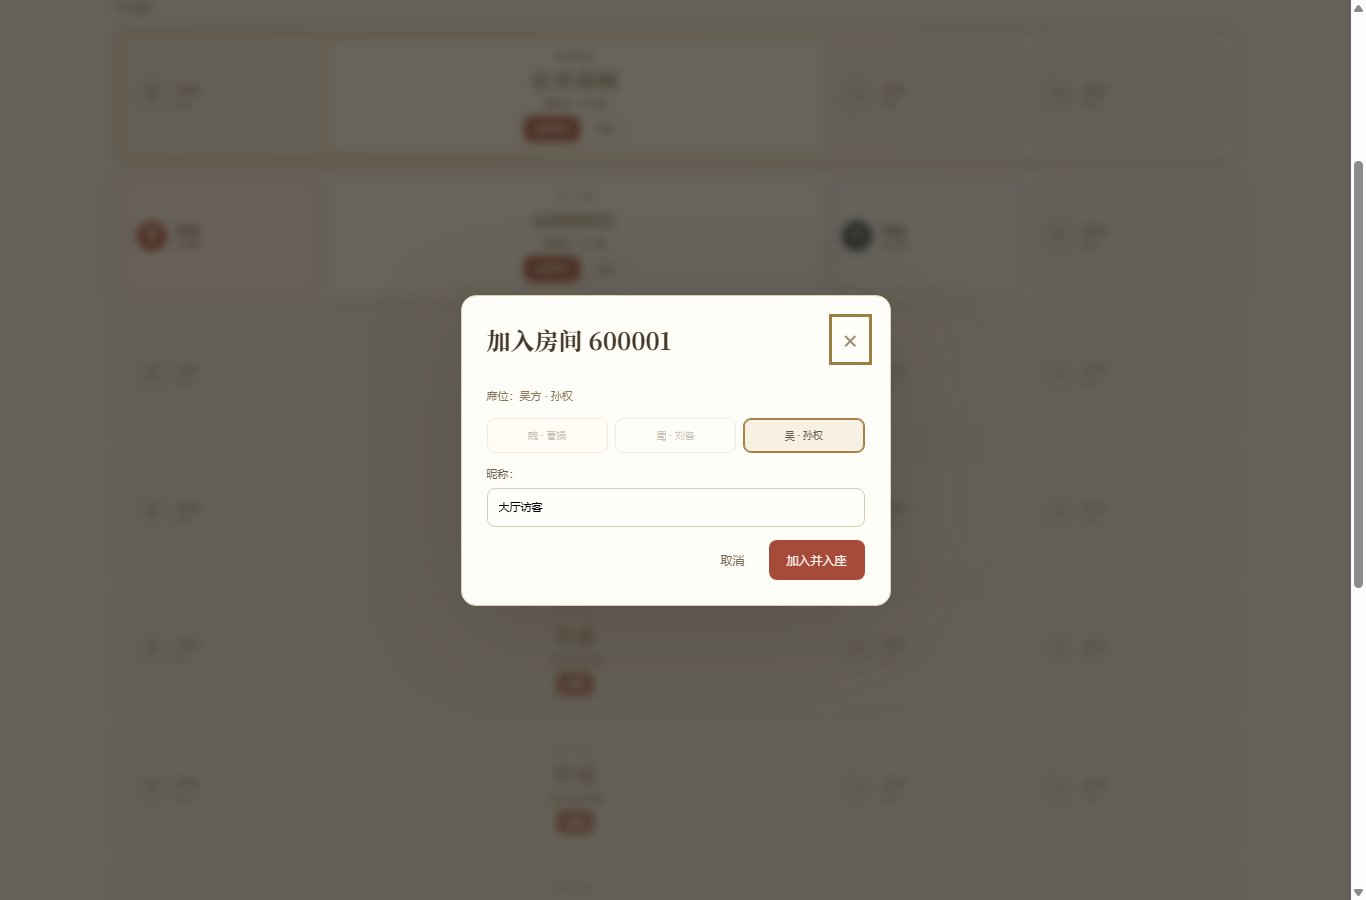
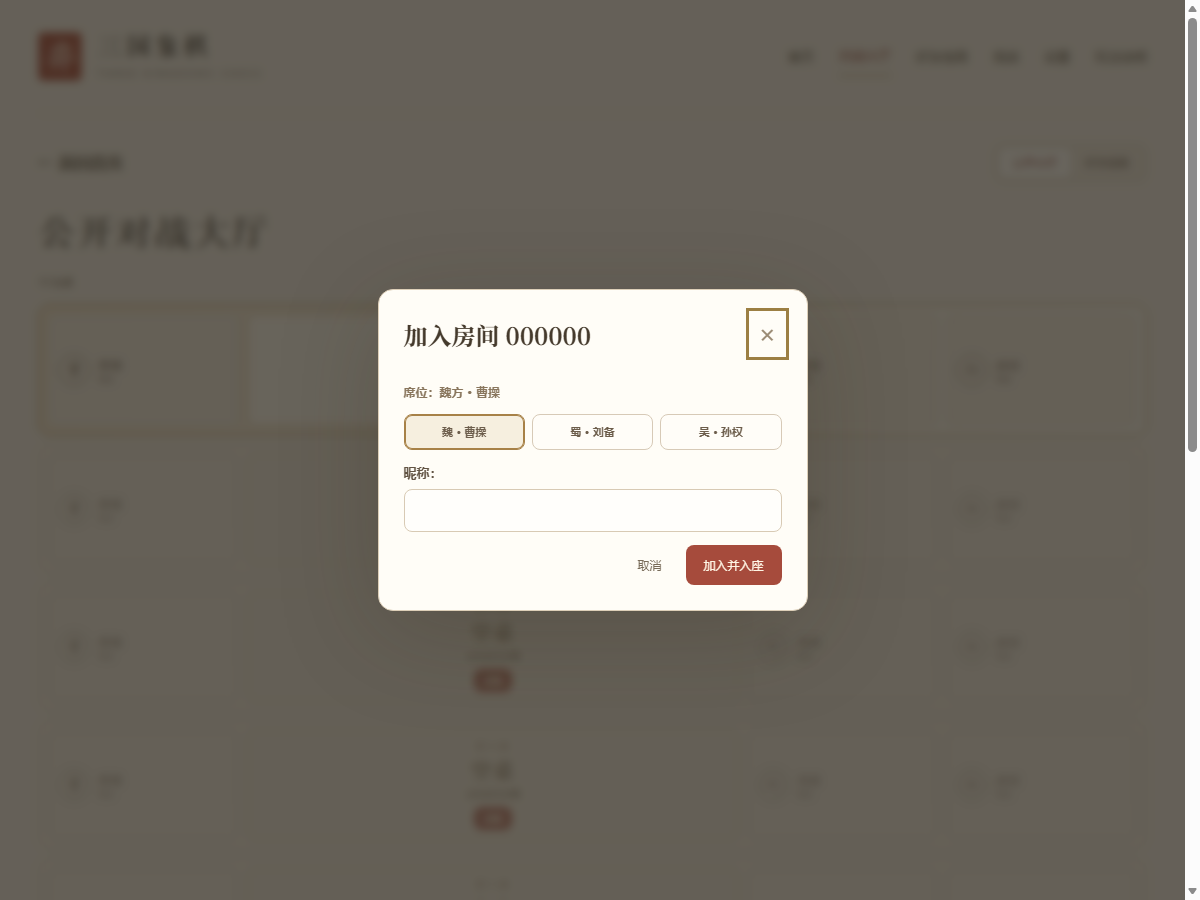
fix: remove nickname placeholders

diff --git a/tests/online-ui.test.ts b/tests/online-ui.test.ts
@@ -134,7 +134,7 @@ test('a public lobby room updates live and accepts the final player without repl
     await wrapper.get('.chess-club-table.empty .club-table-center .primary-button').trigger('click');
     assert.equal((wrapper.get('.lobby-seat-dialog').element as HTMLDialogElement).open, true);
     assert.match(wrapper.get('.lobby-seat-dialog').text(), /昵称：.*房间号：/);
-    assert.equal(wrapper.get('.lobby-seat-dialog input[autocomplete="nickname"]').attributes('placeholder'), '可不填');
+    assert.equal(wrapper.get('.lobby-seat-dialog input[autocomplete="nickname"]').attributes('placeholder'), undefined);
     assert.doesNotMatch(wrapper.get('.lobby-seat-dialog').text(), /你的昵称/);
     await wrapper.get('.lobby-seat-dialog .dialog-close').trigger('click');
     const roomCard = () => wrapper!.findAll('.chess-club-table').find(card => card.text().includes('400006'))!;
@@ -246,7 +246,7 @@ test('an invitation URL inspects the room, joins the chosen seat, and survives r
     assert.equal(wrapper.get('.invite-page h1').text(), '好友邀请');
     assert.match(wrapper.get('.invite-entry').text(), /001357/);
     assert.match(wrapper.get('.invite-entry').text(), /1\/3/);
-    assert.equal(wrapper.find('.invite-page input[autocomplete="nickname"]').attributes('placeholder'), '可不填');
+    assert.equal(wrapper.find('.invite-page input[autocomplete="nickname"]').attributes('placeholder'), undefined);
     await wrapper.get('.invite-page input[autocomplete="nickname"]').setValue('受邀魏');
     await wrapper.findAll('.invite-page button').find(button => button.text() === '加入房间')!.trigger('click');
     await waitUntil(() => wrapper!.find('.room-lobby').exists(), 'Invitation join did not open the waiting room');

diff --git a/src/components/LobbyPage.vue b/src/components/LobbyPage.vue
@@ -215,7 +215,7 @@ function submitTableDialog() {
             {{ PLAYERS[faction].nation }} · {{ PLAYERS[faction].name }}
           </button>
         </div>
-        <label>昵称：<input v-model="tableNickname" maxlength="16" autocomplete="nickname" placeholder="可不填"></label>
+        <label>昵称：<input v-model="tableNickname" maxlength="16" autocomplete="nickname"></label>
         <label v-if="tableIntent === 'create'">房间号：<input v-model="tableRoomCode" maxlength="6" inputmode="numeric" autocomplete="off" placeholder="输入 6 位数字房间号" @input="tableRoomCode = tableRoomCode.replace(/[^0-9]/g, '')"></label>
         <p v-if="tableError || error" class="connection-note error" role="status">{{ tableError || error }}</p>
         <div class="dialog-actions"><button class="tool-button" type="button" @click="tableDialog?.close()">取消</button><button class="primary-button" type="submit" :disabled="busy || !online">{{ tableIntent === 'create' ? '创建并入座' : '加入并入座' }}</button></div>

diff --git a/src/components/InvitePage.vue b/src/components/InvitePage.vue
@@ -127,7 +127,7 @@ function submit() {
               </button>
             </div>
           </div>
-          <label>昵称<input v-model="nickname" maxlength="16" autocomplete="nickname" placeholder="可不填"></label>
+          <label>昵称<input v-model="nickname" maxlength="16" autocomplete="nickname"></label>
           <p v-if="error" class="connection-note error" role="status">{{ error }}</p>
           <div class="entry-actions">
             <button class="primary-button" type="submit" :disabled="!canJoin || busy || connection !== 'online'">加入房间</button>

diff --git a/docs/V0.1验收清单.md b/docs/V0.1验收清单.md
@@ -20,7 +20,7 @@
 
 - [x] 新访客首先进入游戏首页，可进入公开大厅、好友组局、本地试玩和玩法说明；首页不展开完整棋盘。
 - [x] 首页三个主入口按“公开大厅 / 好友对战 / 本地试玩”排列，仅展示大标题；三张静态阵营卡、首屏重复入口及页尾重复的玩法说明/设置均已删除。
-- [x] 好友页标题为“好友对弈”，移除游客提示和说明段；两张表单以“创建房间 / 加入房间”为主标题，不再显示红色小标题；返回首页字号提升，昵称框不显示“可不填”占位文字。
+- [x] 好友页标题为“好友对弈”，移除游客提示和说明段；两张表单以“创建房间 / 加入房间”为主标题，不再显示红色小标题；返回首页字号提升，所有昵称输入框均不显示占位说明，昵称仍可留空。
 - [x] 公开大厅固定展示 10 桌：首桌为常驻公开房间，其余 9 桌无人时显示空桌，创建后显示房间号并点亮；“棋社桌位”标题已移除。
 - [x] 每桌包含曹操、刘备、孙权席位及中间房间状态，公开摘要不包含棋局和重连凭证。
 - [x] 三个席位均可点击；弹框只显示可选“昵称：”，不要求昵称，加入时直接坐到所点阵营，空桌创建时输入 6 位房间号。
